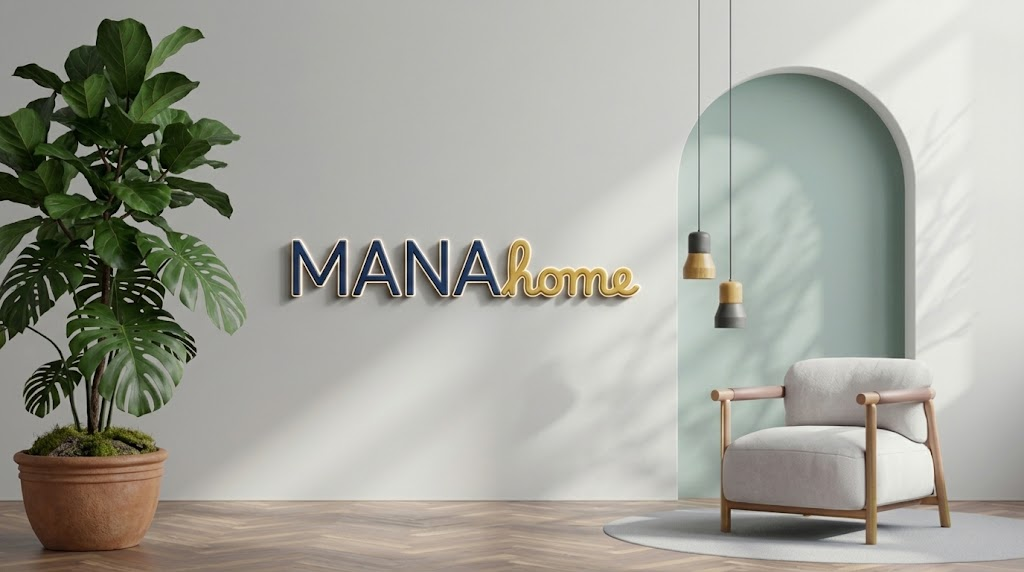
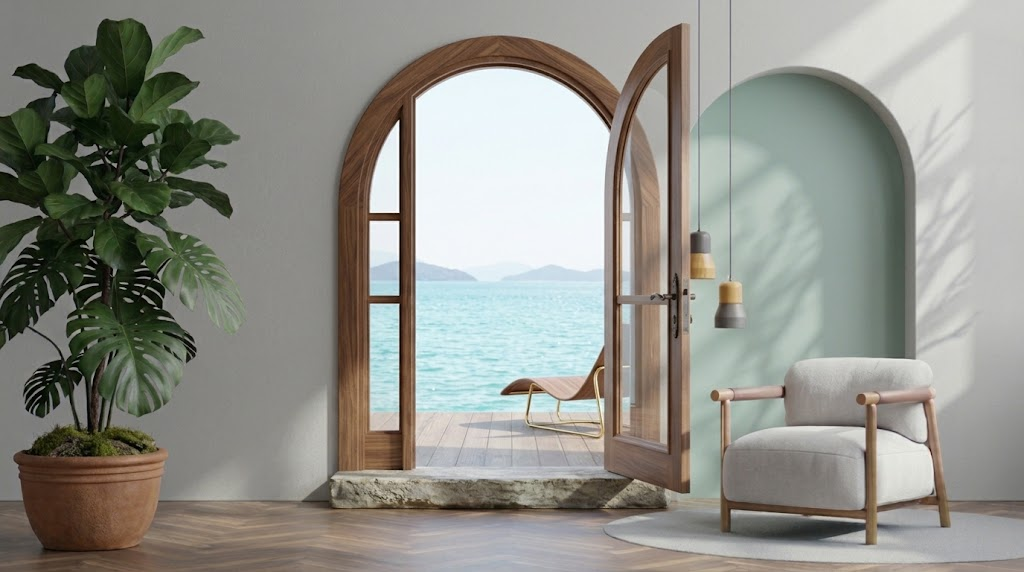
Fonds d'écran hero : nouvelle image (porte ouverte sur la mer)

diff --git a/site/assets/index-CZaNKA6m.css b/site/assets/index-CZaNKA6m.css
@@ -1,0 +1,1 @@
+:root{--ink: #1b2a4a;--primary: #b08a2e;--primary-deep: #8f6d1f;--sand: #faf8f3;--blanc-chaud: #ffffff;--ecume: #e9e5dc;--or: #c9a227;--alerte: #b0413e;--shadow: 0 4px 32px rgb(44 47 33 / 10%);--t-xs: .875rem;--t-s: 1rem;--t-m: 1.125rem;--t-l: 1.375rem;--t-xl: 1.75rem;--t-2xl: 2.5rem;--t-hero: 4rem;--sp-1: 8px;--sp-2: 16px;--sp-4: 32px;--sp-6: 48px;--sp-12: 96px;--serif: "Fraunces", Georgia, "Times New Roman", serif;--sans: "Inter", "Marianne", system-ui, sans-serif}*{box-sizing:border-box}@font-face{font-family:"Marelle Baton 2";src:url(/manahome-app/assets/MarelleBaton2-Regular-DkOha6US.woff2) format("woff2");font-weight:400;font-display:swap}body{margin:0;font-family:var(--sans);font-size:var(--t-s);line-height:1.6;color:var(--ink);background:transparent;-webkit-hyphens:auto;hyphens:auto}html{background:var(--sand)}.wrap{max-width:1080px;margin:0 auto;padding:0 var(--sp-4)}.site-header{position:sticky;top:var(--sp-2);z-index:10;display:flex;justify-content:center;padding:0 var(--sp-2)}.site-header .wrap{display:flex;align-items:center;justify-content:center;gap:var(--sp-4);background:#faf8f3eb;border:1px solid var(--ecume);border-radius:999px;box-shadow:0 2px 6px #1b2a4a14,0 14px 36px #1b2a4a1f;padding:var(--sp-1) var(--sp-4);max-width:1080px;width:fit-content}.brand{font-family:"Marelle Baton 2",var(--serif);font-size:var(--t-m);font-weight:400;color:var(--ink);margin:0;text-decoration:none}.brand em{color:var(--or);font-style:normal}.nav{display:flex;gap:var(--sp-4);align-items:flex-end}.nav a{color:var(--ink);text-decoration:none;display:flex;flex-direction:column;align-items:center;gap:2px;font-size:var(--t-xs);text-align:center;padding:6px 14px;border-radius:999px;border:1px solid transparent;transition:box-shadow .16s ease,transform .16s ease,border-color .16s ease}.nav a:hover{color:var(--primary);border-color:var(--ecume);box-shadow:inset 0 1px 2px #ffffffe5,0 3px 8px #1b2a4a1f;transform:translateY(-1px)}.nav .nav-cta{color:var(--primary);background:#ffffffb3;border-color:var(--ecume);box-shadow:inset 0 1px 2px #ffffffe5,0 3px 10px #1b2a4a24}.nav .nav-cta:hover{box-shadow:inset 0 1px 2px #ffffffe5,0 6px 16px #1b2a4a33;transform:translateY(-1px)}@media (max-width: 640px){.nav{gap:var(--sp-1)}.site-header .wrap{padding-left:var(--sp-2);padding-right:var(--sp-2)}.nav a>span{position:absolute;width:1px;height:1px;overflow:hidden;clip-path:inset(50%)}}.hero{min-height:92vh;display:flex;align-items:center;justify-content:center;text-align:center;position:relative;background:transparent}.hero:before{content:"";position:fixed;top:0;right:0;bottom:0;left:0;background:url(/manahome-app/assets/hero-zESQ3FRP.jpg) center / cover no-repeat;z-index:-2}.hero .wrap{position:relative;max-width:720px;background:#ffffffd1;border:1px solid var(--ecume);border-radius:96px 128px 88px 120px/88px 110px 120px 96px;box-shadow:0 2px 6px #1b2a4a0f,0 28px 64px #1b2a4a29;padding:var(--sp-6) var(--sp-6) var(--sp-4)}@media (max-width: 720px){.hero .wrap{padding:var(--sp-4) var(--sp-2) var(--sp-2);border-radius:48px 64px 44px 60px/44px 56px 60px 48px}}.hero-label{font-size:var(--t-xs);letter-spacing:.18em;text-transform:uppercase;color:var(--primary);margin:0 0 var(--sp-2)}.hero h1.brand-grand{font-family:"Marelle Baton 2",var(--serif);font-size:clamp(2.4rem,7vw,4.5rem);white-space:nowrap;line-height:1.1;font-weight:400;margin:0 auto var(--sp-2);color:var(--ink)}.hero h1.brand-grand em{color:var(--or);font-style:normal}.hero .lede{font-size:var(--t-m);max-width:40ch;margin:0 auto var(--sp-4);opacity:.9}.hero-cta{display:flex;gap:var(--sp-2);flex-wrap:wrap;justify-content:center;margin:0 0 var(--sp-2)}.hero-note{font-size:var(--t-xs);opacity:.6;margin:0}.bulle{background:#ffffffe0;border:1px solid var(--ecume);border-radius:28px 40px 24px 36px;box-shadow:0 2px 6px #1b2a4a0f,0 24px 56px #1b2a4a24;padding:var(--sp-6)}@media (max-width: 720px){.bulle{padding:var(--sp-4);border-radius:20px 28px 18px 26px}}.bulle .section-num{margin-top:0}.bulle.landing-section,.bulle.section-ia{background:none;border:none;box-shadow:none;padding-left:0;padding-right:0}.bulle.landing-section>*:not(.listings),.bulle.section-ia>*{background:#ffffffe0;border:1px solid var(--ecume);border-radius:22px 30px 18px 26px;box-shadow:0 2px 6px #1b2a4a0f,0 16px 36px #1b2a4a1f;padding:var(--sp-1) var(--sp-4);margin-left:auto;margin-right:auto;width:fit-content;max-width:72ch}.bulle.section-ia .ia-quote{width:fit-content}.bulle{text-align:center}.bulle .section-accroche,.bulle .section-texte,.bulle .glyphe{margin-left:auto;margin-right:auto}.bulle .est-actions,.bulle .hero-cta{justify-content:center}.promesses{padding-bottom:var(--sp-12)}.promesse-card{background:none;border:none;box-shadow:none;margin:calc(-1 * var(--sp-12)) auto 0;max-width:920px;position:relative;z-index:2}.promesses-grid{display:grid;grid-template-columns:repeat(auto-fit,minmax(220px,1fr));gap:var(--sp-4);padding:var(--sp-6)}.glyphe{display:inline-grid;place-items:center;width:44px;height:44px;border-radius:12px;border:1px solid var(--or);color:var(--primary);margin-bottom:var(--sp-2)}.section-glyphe{margin-bottom:var(--sp-1)}.promesse{background:#ffffffe0;border:1px solid var(--ecume);border-radius:28px 36px 24px 32px;box-shadow:0 2px 6px #1b2a4a0f,0 24px 56px #1b2a4a24;padding:var(--sp-4)}.promesse h3{font-family:var(--serif);font-size:var(--t-m);font-weight:600;margin:0 0 var(--sp-1);color:var(--primary)}.promesse{text-align:center}.promesse p{margin:0;font-size:var(--t-s);opacity:.8}.promesse .glyphe{margin:0 auto var(--sp-2)}.landing-section{padding:var(--sp-12) 0}.section-num{font-family:var(--serif);font-size:var(--t-xs);color:var(--or);letter-spacing:.2em;margin:0 0 var(--sp-1)}.section-title{font-family:var(--serif);font-size:var(--t-xl);font-weight:500;margin:0 0 var(--sp-2)}.section-accroche{font-family:var(--serif);font-size:var(--t-l);color:var(--primary);margin:0 0 var(--sp-2);max-width:30ch}.section-texte{max-width:52ch;margin:0 0 var(--sp-4);opacity:.85}.catalogue-note{font-size:var(--t-xs);opacity:.6;margin-top:var(--sp-4)}.listings{display:grid;grid-template-columns:repeat(auto-fill,minmax(320px,1fr));gap:var(--sp-4);padding:0;list-style:none;margin:0 0 var(--sp-4)}.card{background:#ffffffeb;border:1px solid var(--ecume);border-radius:10px;overflow:hidden;transition:box-shadow .18s ease,transform .18s ease}.card:hover{box-shadow:var(--shadow);transform:translateY(1px)}.card a{text-decoration:none;color:inherit;display:block}.card .photo{aspect-ratio:4 / 3;background:linear-gradient(160deg,#efe9dd,#f7f3ea);display:grid;place-items:center;color:var(--primary);font-family:var(--serif);font-size:var(--t-m);opacity:.5}.card .body{padding:var(--sp-2) var(--sp-2) var(--sp-4)}.card .lieu{font-size:var(--t-xs);opacity:.65;margin:0 0 4px}.card h3{font-family:var(--serif);font-size:var(--t-m);font-weight:600;margin:0 0 var(--sp-2)}.card .prix{font-family:var(--serif);font-size:var(--t-l);margin:0;color:var(--ink)}.meta{display:flex;gap:var(--sp-2);align-items:center;font-size:var(--t-xs);opacity:.75}.meta .sep{color:var(--or)}.dpe{display:inline-grid;place-items:center;width:22px;height:22px;border-radius:4px;font-size:11px;font-weight:700;color:#fff}.dpe-A{background:#00985f}.dpe-B{background:#2eb754}.dpe-C{background:#a7d21e}.dpe-D{background:#f5e11a;color:var(--ink)}.dpe-E{background:#f9b233;color:var(--ink)}.dpe-F{background:#e8511a}.dpe-G{background:#d02a2a}.badge-source{display:inline-block;font-size:11px;padding:2px 8px;border-radius:999px;background:var(--ecume);color:var(--ink)}.badge-source.pro{background:var(--ink);color:var(--sand)}.btn{display:inline-block;font-size:var(--t-s);padding:12px 24px;border-radius:999px;border:1px solid var(--primary);text-decoration:none;transition:background .15s ease,color .15s ease}.btn-primary{background:var(--primary);color:#fff}.btn-primary:hover{background:var(--primary-deep)}.btn-ghost{background:var(--blanc-chaud);color:var(--primary)}.btn-ghost:hover{background:var(--or);color:#fff;border-color:var(--primary-deep)}.ia-quote{font-family:var(--serif);font-size:var(--t-xl);font-weight:400;font-style:italic;border-left:2px solid var(--or);margin:0 0 var(--sp-4);padding-left:var(--sp-4);max-width:40ch}.ia-grid{display:grid;grid-template-columns:repeat(auto-fit,minmax(240px,1fr));gap:var(--sp-4);margin-bottom:var(--sp-4)}.ia-bloc{background:#ffffffe0;border:1px solid var(--ecume);border-radius:28px 32px 24px 36px;box-shadow:0 2px 6px #1b2a4a0f,0 24px 56px #1b2a4a24;padding:var(--sp-4)}.ia-bloc{text-align:center}.ia-bloc h3{font-family:var(--serif);font-size:var(--t-m);font-weight:600;margin:0 0 var(--sp-1)}.ia-bloc p{margin:0;font-size:var(--t-s);opacity:.8}.section-ia .ia-quote{margin-left:auto;margin-right:auto}.ia-disclaimer{font-size:var(--t-xs);opacity:.55;max-width:60ch}.fiche{max-width:880px;margin:0 auto;padding:var(--sp-4) var(--sp-4) var(--sp-12)}.retour{font-size:var(--t-xs);color:var(--ink);text-decoration:none;display:inline-block;margin-bottom:var(--sp-2)}.retour:hover{color:var(--primary)}.fiche-photos{aspect-ratio:16 / 9;border-radius:12px;background:linear-gradient(160deg,#efe9dd,#f7f3ea);display:grid;place-items:center;color:var(--primary);font-family:var(--serif);font-size:var(--t-m);opacity:.55;margin-bottom:var(--sp-4)}.fiche-corps{background:#ffffffeb;border:1px solid var(--ecume);border-radius:12px;padding:var(--sp-4) var(--sp-6)}.fiche-lieu{font-size:var(--t-xs);opacity:.65;margin:0 0 4px;letter-spacing:.08em;text-transform:uppercase}.fiche-titre{font-family:"Marelle Baton 2",var(--serif);font-size:var(--t-2xl);font-weight:400;line-height:1.15;margin:0 0 var(--sp-4);color:var(--ink)}.fiche-chiffres{display:grid;grid-template-columns:repeat(auto-fit,minmax(140px,1fr));gap:var(--sp-4);padding:var(--sp-4) 0;border-top:1px solid var(--or);border-bottom:1px solid var(--ecume);margin:0 0 var(--sp-4)}.fiche-chiffres dt{font-size:var(--t-xs);opacity:.6;margin-bottom:4px}.fiche-chiffres dd{font-family:var(--serif);font-size:var(--t-xl);margin:0;color:var(--ink)}.fiche-chiffres .canon{color:var(--primary)}.fiche-description{font-size:var(--t-m);line-height:1.7;max-width:60ch;margin:0 0 var(--sp-6)}.fiche-pied{display:flex;gap:var(--sp-4);align-items:center;flex-wrap:wrap}.fiche-note{font-size:var(--t-xs);opacity:.6;margin-top:var(--sp-2);max-width:55ch}.publier{padding:var(--sp-6) 0 var(--sp-12)}.etapes{display:flex;gap:var(--sp-2);list-style:none;padding:0;margin:0 0 var(--sp-4);font-size:var(--t-xs)}.etapes li{flex:1;padding:var(--sp-1) var(--sp-2);border-bottom:2px solid var(--ecume);color:var(--ink);opacity:.45;transition:opacity .15s ease,border-color .15s ease}.etapes li.on{opacity:1;border-bottom-color:var(--primary)}.etapes li.done{opacity:.8;border-bottom-color:var(--or)}.publier-panel{background:#ffffffeb;border:1px solid var(--ecume);border-radius:12px;padding:var(--sp-6);max-width:720px}.champ{margin-bottom:var(--sp-4)}.champ label{display:block;font-size:var(--t-xs);font-weight:600;margin-bottom:var(--sp-1);color:var(--ink)}.champ input,.champ select,.champ textarea{width:100%;padding:12px 14px;border:1px solid var(--ecume);border-radius:8px;font-family:var(--sans);font-size:var(--t-s);background:var(--blanc-chaud);color:var(--ink)}.champ input:focus,.champ select:focus,.champ textarea:focus{outline:2px solid var(--primary);outline-offset:-1px}.champ-aide{font-size:var(--t-xs);opacity:.6;margin:var(--sp-1) 0 0}.champ-grid{display:grid;grid-template-columns:repeat(auto-fit,minmax(150px,1fr));gap:var(--sp-4)}.dpe-choix{display:flex;gap:var(--sp-1);flex-wrap:wrap}.dpe-btn{background:none;border:2px solid transparent;border-radius:8px;padding:4px;cursor:pointer}.dpe-btn.on{border-color:var(--primary)}.dpe-NC{background:var(--ecume);color:var(--ink)}.publier-nav{display:flex;justify-content:space-between;align-items:center;margin-top:var(--sp-6);gap:var(--sp-2)}.publier-note{font-size:var(--t-xs);opacity:.6;margin-top:var(--sp-4);max-width:60ch}.apercu-label{font-size:var(--t-xs);letter-spacing:.14em;text-transform:uppercase;color:var(--primary);margin:0 0 var(--sp-2)}.apercu{margin-bottom:var(--sp-6)}.territoire-chiffres{display:grid;grid-template-columns:repeat(auto-fit,minmax(140px,1fr));gap:var(--sp-4);padding:var(--sp-4) 0;border-top:1px solid var(--or);border-bottom:1px solid var(--ecume);margin:0 0 var(--sp-6)}.territoire-chiffres dt{font-size:var(--t-xs);opacity:.6;margin-bottom:4px}.territoire-chiffres dd{font-family:var(--serif);font-size:var(--t-xl);margin:0;color:var(--primary)}.territoire-prix{background:#ffffffeb;border:1px solid var(--ecume);border-radius:12px;padding:var(--sp-4);margin-top:var(--sp-4)}.prix-chart{width:100%;height:auto;display:block;margin:var(--sp-2) 0}.chart-label{font-size:11px;fill:var(--ink);opacity:.65}.chart-val{fill:var(--primary);opacity:1;font-weight:600}.georisk,.georisk .btn{margin-top:var(--sp-4)}.territoire-intro{font-family:var(--serif);font-size:var(--t-l);line-height:1.6;max-width:56ch;margin:0 0 var(--sp-6);color:var(--ink)}.territoire-grid{display:grid;grid-template-columns:repeat(auto-fit,minmax(300px,1fr));gap:var(--sp-4)}.territoire-bloc{background:#ffffffeb;border:1px solid var(--ecume);border-radius:12px;padding:var(--sp-4)}.territoire-bloc-tete{border-bottom:1px solid var(--or);padding-bottom:var(--sp-2);margin-bottom:var(--sp-2)}.territoire-bloc-tete h3{font-family:"Marelle Baton 2",var(--serif);font-size:var(--t-l);font-weight:400;margin:0;color:var(--primary)}.territoire-bloc-tete p{font-size:var(--t-xs);opacity:.6;margin:4px 0 0}.territoire-texte{margin:0;line-height:1.7}.territoire-note{font-size:var(--t-xs);opacity:.6;margin-top:var(--sp-4);max-width:60ch}.site-footer{border-top:none;padding:var(--sp-4) 0 var(--sp-6);font-size:var(--t-xs);opacity:1}.site-footer>.wrap{background:#ffffffe0;border:1px solid var(--ecume);border-radius:28px 36px 24px 32px;box-shadow:0 2px 6px #1b2a4a0f,0 24px 56px #1b2a4a24;padding:var(--sp-4) var(--sp-6)}@media (max-width: 720px){.site-footer>.wrap{padding:var(--sp-4);border-radius:20px 28px 18px 26px}}@media (prefers-reduced-motion: reduce){*{transition:none!important}.card:hover{transform:none}}@media (max-width: 640px){.hero h1{font-size:var(--t-2xl)}:root{--sp-12: 64px}.promesses-grid{padding:var(--sp-4)}.hero{background-attachment:scroll}}.est-fourchette{font-family:"Marelle Baton 2",var(--serif);font-size:clamp(2rem,6vw,3.4rem);color:var(--ink);margin:var(--sp-2) 0 4px}.est-mediane{font-size:var(--t-m);margin:0 0 var(--sp-2)}.est-source{font-size:var(--t-xs);opacity:.6;max-width:60ch;margin:0 0 var(--sp-3)}.est-erreur{font-size:var(--t-m);color:var(--primary);margin:0 0 var(--sp-2)}.est-actions{display:flex;gap:var(--sp-2);flex-wrap:wrap;margin:0 0 var(--sp-3)}.champ-lien{color:var(--primary);text-decoration:underline}.champ-lien:hover{color:var(--or)}.annonces-filtres{display:flex;gap:var(--sp-1);flex-wrap:wrap;margin:0 0 var(--sp-4)}.annonces-filtres .btn.on{background:var(--primary);color:#fff;border-color:var(--primary-deep)}.annonces-filtres .btn{padding:6px 14px;font-size:var(--t-xs)}.site-footer{opacity:1}.footer-colonnes{display:flex;justify-content:space-between;gap:var(--sp-4);flex-wrap:wrap;padding-bottom:var(--sp-4);color:var(--ink)}.footer-colonnes>div,.footer-colonnes .footer-nav{background:#faf8f3b3;border:1px solid var(--ecume);border-radius:18px 24px 16px 20px;padding:var(--sp-2) var(--sp-4)}.footer-colonnes .brand{font-size:var(--t-m);margin:0 0 var(--sp-1)}.footer-note{max-width:44ch;margin:0}.footer-nav{display:flex;flex-direction:column;gap:6px}.footer-nav a{color:var(--ink);text-decoration:none}.footer-nav a:hover{color:var(--or);text-decoration:underline}.footer-bas{display:flex;justify-content:space-between;gap:var(--sp-2);flex-wrap:wrap;border-top:1px solid var(--ecume);padding-top:var(--sp-2);font-size:var(--t-xs);opacity:.65}.footer-bas p{margin:0;max-width:60ch}.footer-bas a{color:var(--ink)}.footer-bas a:hover{color:var(--or)}.messagerie-grille{display:grid;grid-template-columns:minmax(220px,1fr) 3fr;gap:var(--sp-3);align-items:start}.messagerie-liste{display:flex;flex-direction:column;gap:var(--sp-1)}.messagerie-item{display:flex;justify-content:space-between;align-items:center;gap:var(--sp-2);padding:var(--sp-2) var(--sp-3);background:var(--blanc-chaud);border:1px solid var(--sand);border-radius:999px;cursor:pointer;font-size:var(--t-xs);text-align:left}.messagerie-item.on{border-color:var(--primary);background:#fff}.messagerie-item-titre{overflow:hidden;text-overflow:ellipsis;white-space:nowrap;flex:1}.messagerie-item-date{opacity:.55;white-space:nowrap}.messagerie-messages{display:flex;flex-direction:column;gap:var(--sp-2);margin:0 0 var(--sp-3)}.msg{max-width:75%;padding:var(--sp-2) var(--sp-3);border-radius:14px;font-size:var(--t-s)}.msg-moi{align-self:flex-end;background:var(--primary);color:#fff;border-bottom-right-radius:4px}.msg-vendeur{align-self:flex-start;background:var(--sand);color:var(--ink);border-bottom-left-radius:4px}.messagerie-envoi{display:flex;gap:var(--sp-2)}.messagerie-envoi input{flex:1;padding:var(--sp-2) var(--sp-3);border:1px solid var(--sand);border-radius:999px;font:inherit;background:#fff}.messagerie-envoi input:focus{outline:none;border-color:var(--primary)}.fiche-contacter{margin-top:var(--sp-4)}@media (max-width: 720px){.messagerie-grille{grid-template-columns:1fr}.msg{max-width:90%}}.fiche-partage{display:flex;gap:var(--sp-2);flex-wrap:wrap;margin-top:var(--sp-4)}.fiche-partage .btn{font-size:var(--t-xs)}.est-resultat{font-size:var(--t-m);color:var(--primary-deep);margin:0 0 var(--sp-2)}.annonce-vendeur{list-style:none;background:var(--blanc-chaud);border:1px solid var(--ecume);border-radius:14px;padding:var(--sp-2) var(--sp-4);display:flex;justify-content:space-between;align-items:center;gap:var(--sp-2);flex-wrap:wrap}.annonce-vendeur-titre{font-family:var(--serif);font-size:var(--t-l);margin:.2rem 0}.annonce-vendeur-meta{font-size:var(--t-xs);opacity:.7;margin:0}.annonce-vendeur-actions{display:flex;gap:var(--sp-1);flex-wrap:wrap}.annonce-vendeur-actions .btn{font-size:var(--t-xs)}.card .photo.pleine{padding:0}.card .photo.pleine img{width:100%;height:100%;object-fit:cover;display:block;aspect-ratio:4 / 3}.fiche-photo-principale{aspect-ratio:16 / 9;border-radius:12px;overflow:hidden;margin-bottom:var(--sp-2)}.fiche-photo-principale img{width:100%;height:100%;object-fit:cover;display:block}.fiche-miniatures{display:flex;gap:var(--sp-1);flex-wrap:wrap;margin-bottom:var(--sp-4)}.fiche-miniature{border:2px solid transparent;border-radius:8px;padding:0;overflow:hidden;cursor:pointer;background:none}.fiche-miniature img{width:72px;height:54px;object-fit:cover;display:block}.fiche-miniature.on{border-color:var(--or)}.photos-apercu{list-style:none;display:grid;grid-template-columns:repeat(auto-fill,minmax(96px,1fr));gap:var(--sp-1);padding:0;margin:var(--sp-2) 0 0}.photos-apercu li{position:relative;border-radius:8px;overflow:hidden;aspect-ratio:4 / 3}.photos-apercu img{width:100%;height:100%;object-fit:cover;display:block}.photos-apercu button{position:absolute;top:4px;right:4px;border:none;border-radius:50%;width:22px;height:22px;cursor:pointer;background:#1b2a4acc;color:#fff;font-size:14px;line-height:1}.photos-vitrine{position:absolute;bottom:4px;left:4px;font-size:10px;background:var(--or);color:#fff;border-radius:4px;padding:1px 6px}.apercu-photo{aspect-ratio:16 / 9;border-radius:12px;overflow:hidden;margin-bottom:var(--sp-2)}.apercu-photo img{width:100%;height:100%;object-fit:cover;display:block}

diff --git a/site/index.html b/site/index.html
@@ -9,8 +9,8 @@
     <meta property="og:type" content="website" />
     <meta property="og:title" content="MANAhome — Gratuit. Accompagné. Lisible par les IA." />
     <meta property="og:description" content="Portail immobilier territorial gratuit sur Crozon (Finistère). Publiez votre annonce sans commission, accompagné, lisible par les assistants IA." />
-    <script type="module" crossorigin src="/manahome-app/assets/index-DzqTFZbm.js"></script>
-    <link rel="stylesheet" crossorigin href="/manahome-app/assets/index-P4mFNqrw.css">
+    <script type="module" crossorigin src="/manahome-app/assets/index-DZ9p4Jqp.js"></script>
+    <link rel="stylesheet" crossorigin href="/manahome-app/assets/index-CZaNKA6m.css">
   </head>
   <body>
     <div id="root"></div>

diff --git a/src/styles.css b/src/styles.css
@@ -160,7 +160,7 @@ html { background: var(--sand); }
   content: "";
   position: fixed;
   inset: 0;
-  background: url("./assets/hero.jpg") 58% 40% / cover no-repeat;
+  background: url("./assets/hero.jpg") center / cover no-repeat;
   z-index: -2;
 }
 .hero .wrap {
